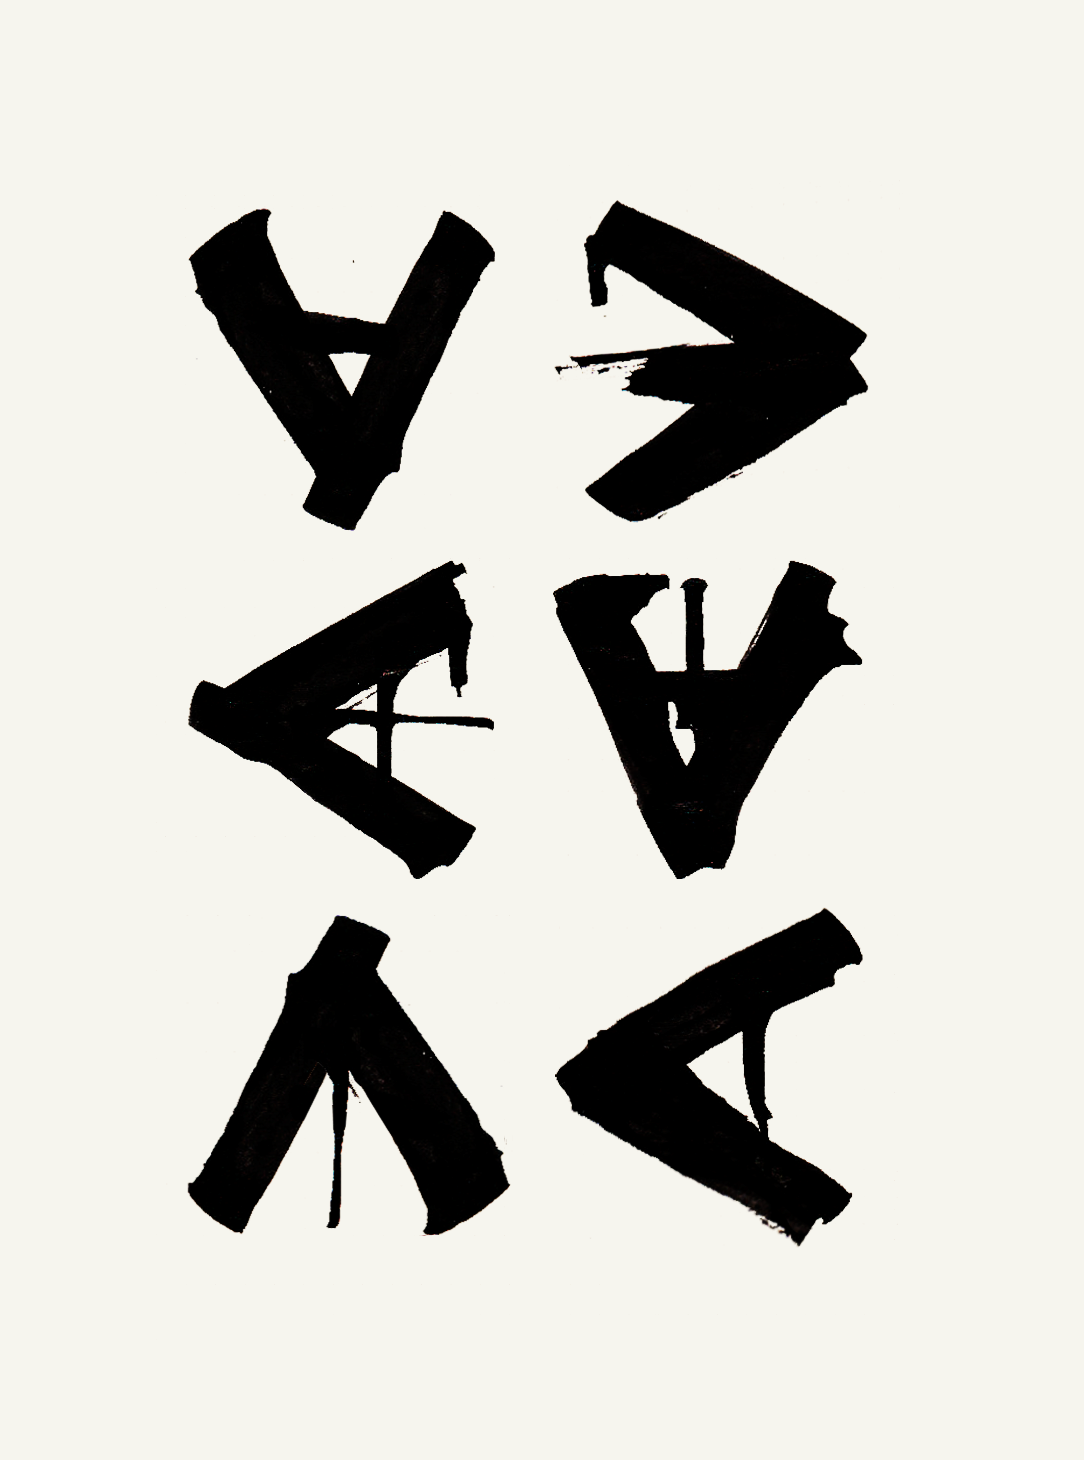
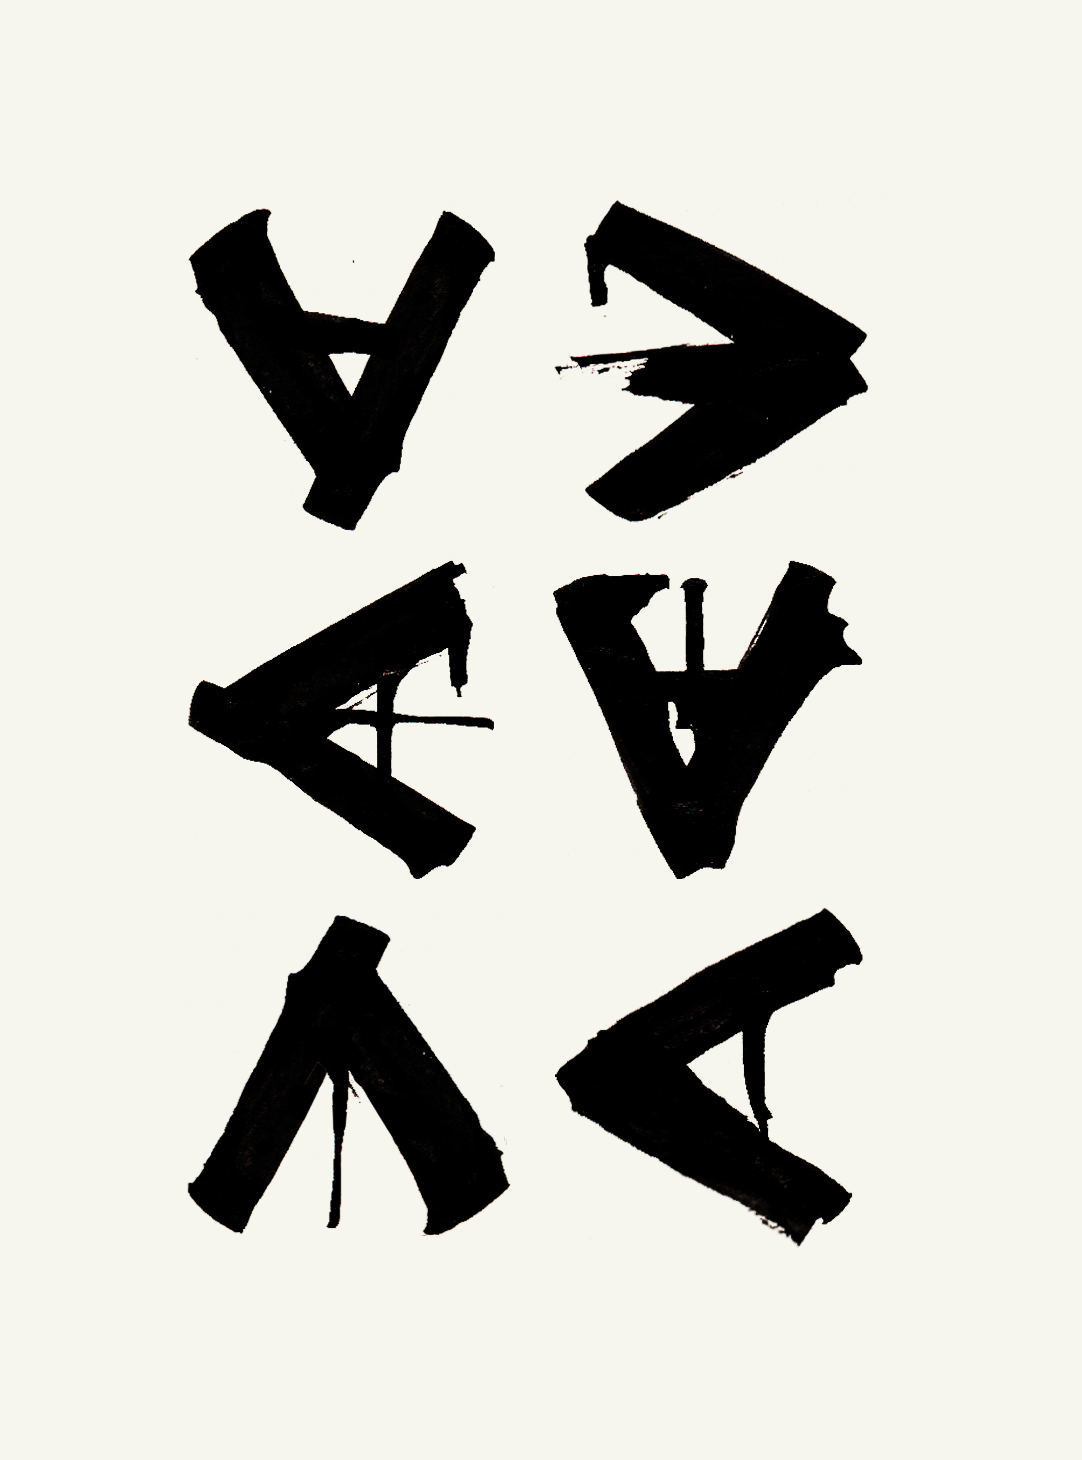
updating blots

diff --git a/_posts/2013-12-01-self-referential-inkblots.md b/_posts/2013-12-01-self-referential-inkblots.md
@@ -9,7 +9,7 @@ images:
   - src:    post-016_img.png
     class:  post-img
     width:  600
-    height: 808
+    height: 810
 ---
 V's, rather. Basically what you get when you cross an echo chamber of constraints with sumi ink.
 
